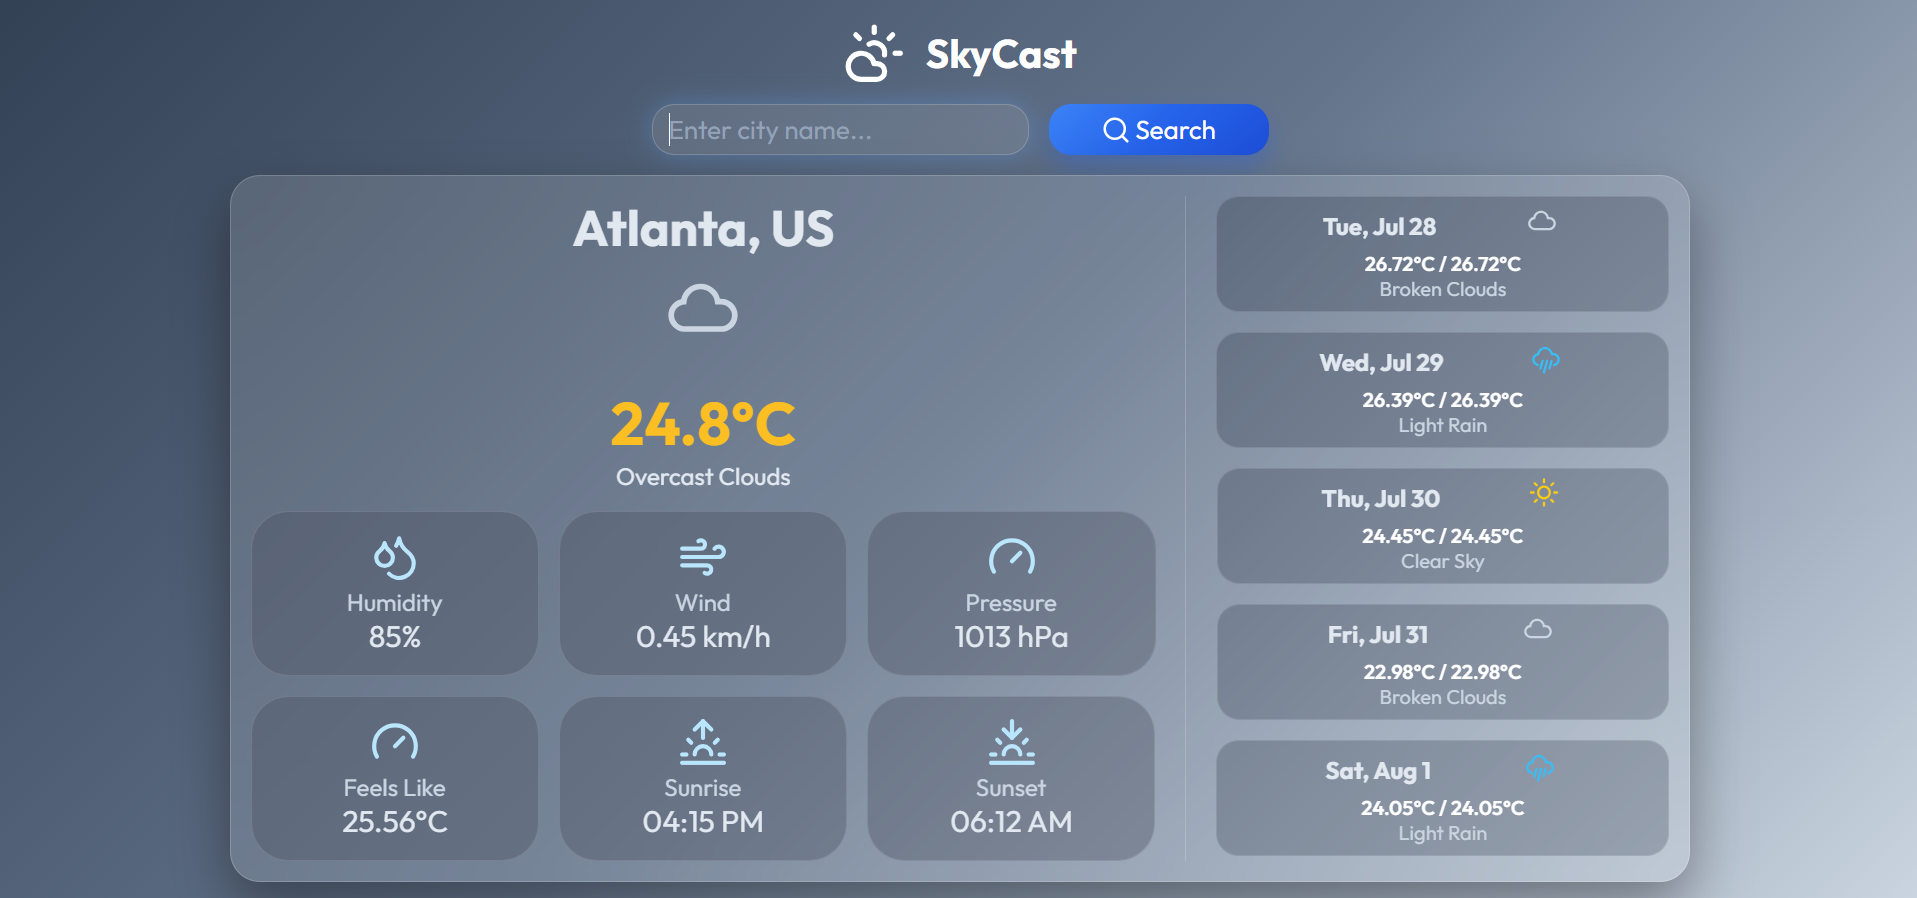
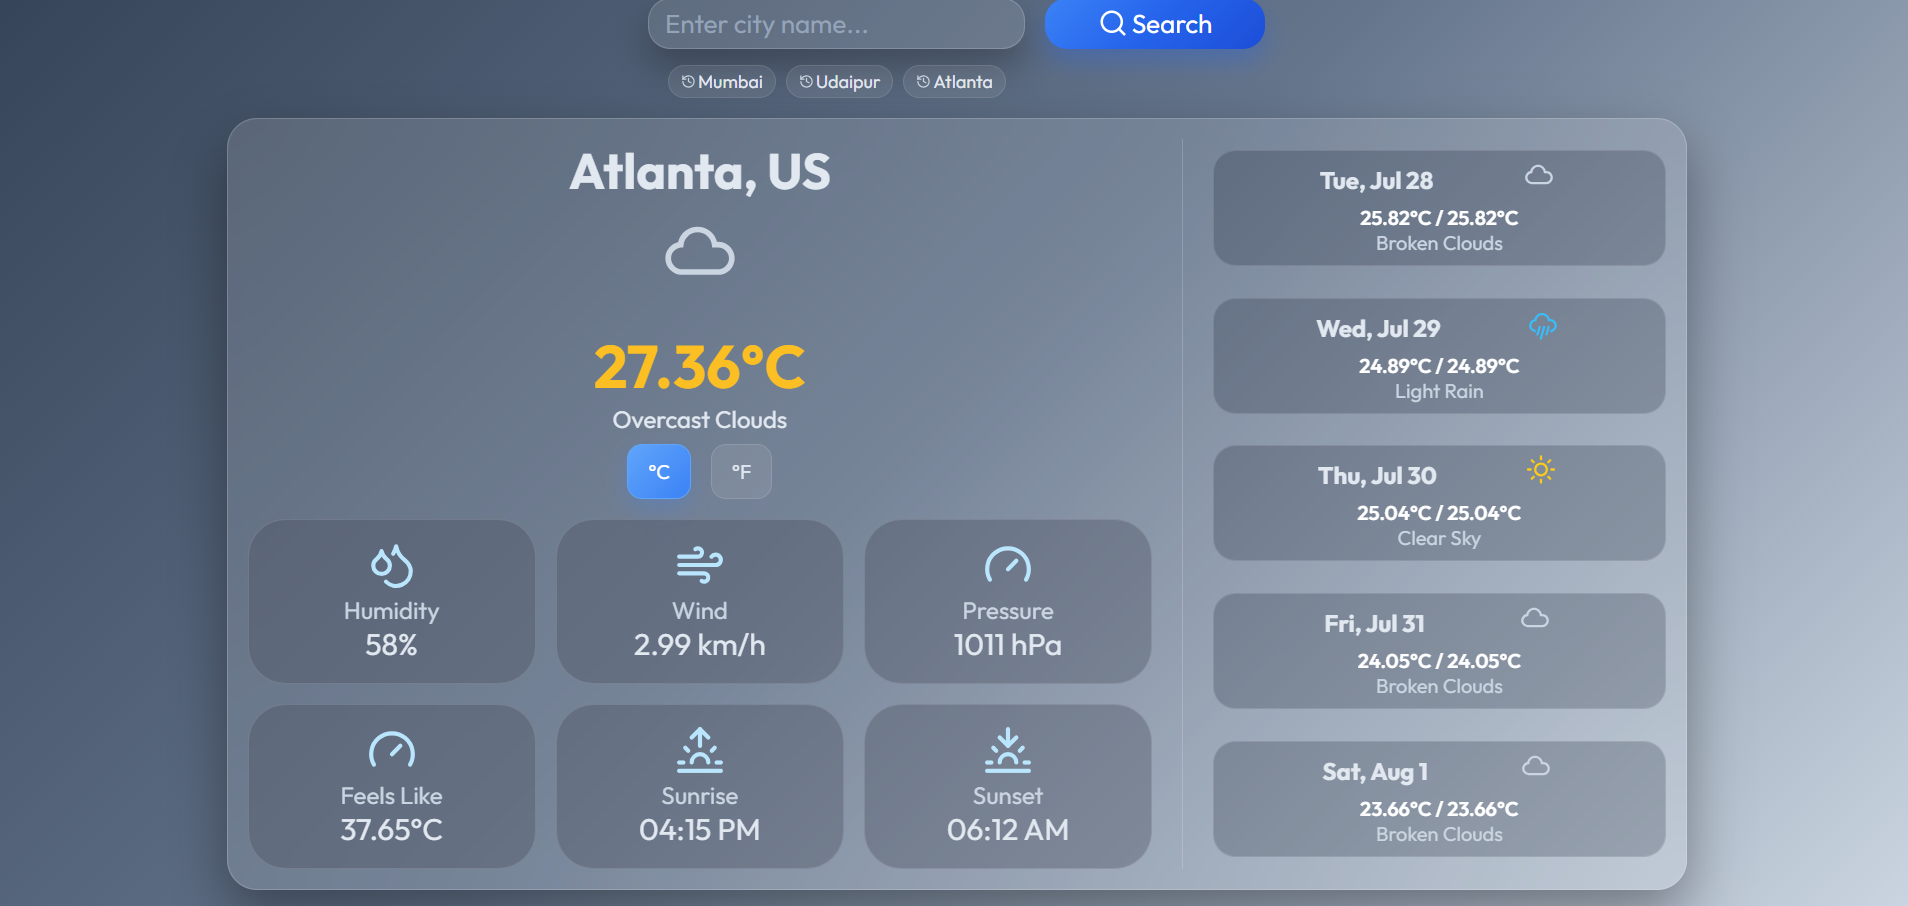
Update README and some stylings.

diff --git a/src/index.css b/src/index.css
@@ -111,9 +111,8 @@
     --transition-fast: .2s ease;
     --transition: all .3s ease;
     --transition-slow: .45s ease;
-        
-    --scroll-thumb: #60A5FA;
-    --scroll-track: transparent;
+    --scroll-thumb: rgba(255, 255, 255, 0.28);
+    --scroll-thumb-hover: rgba(255,255,255,.45);
 
     --recent-search-bg: rgba(255, 255, 255, 0.08);
     --recent-search-hover: rgba(255, 255, 255, 0.14);
@@ -425,6 +424,16 @@ body{
 }
 .forecast-card-description{
     color: var(--text-muted)
+}
+::-webkit-scrollbar{
+    width: 6px;
+}
+::-webkit-scrollbar-thumb{
+    background: var(--scroll-thumb);
+    border-radius: 999px;
+}
+::-webkit-scrollbar-thumb:hover{
+    background: var(--scroll-thumb-hover);
 }
 
 @media (max-width: 1200px){

diff --git a/README.md b/README.md
@@ -1,6 +1,6 @@
 # 🌤 SkyCast
 
-A modern and responsive weather application built with **React.js** that provides real-time weather information and a 5-day forecast for any city worldwide. SkyCast features a clean user interface, smooth user experience, and dynamic weather data powered by the OpenWeather API.
+A modern and responsive weather application built with **React.js** that provides real-time weather information, a 5-day forecast, recent search history, and temperature unit conversion (°C/°F) for cities worldwide. SkyCast features a clean glassmorphism-inspired interface and delivers live weather data using the OpenWeather API.
 
 ![React](https://img.shields.io/badge/React-19-61DAFB?logo=react)
 ![Vite](https://img.shields.io/badge/Vite-7-646CFF?logo=vite)
@@ -33,11 +33,15 @@ A modern and responsive weather application built with **React.js** that provide
 - 🌡 View real-time weather conditions
 - 📅 5-day weather forecast
 - 🌤 Weather icons based on current conditions
+- 🌈 Dynamic backgrounds that change based on current weather conditions
+- 🌡 Toggle between Celsius (°C) and Fahrenheit (°F)
+- 🕘 Recent search history with one-click search
+- 💾 Recent searches are saved using Local Storage
 - ⚡ Fast and responsive user interface
 - 📱 Fully responsive design for desktop, tablet, and mobile
 - ⏳ Loading spinner while fetching weather data
 - ❌ User-friendly error handling for invalid cities or network issues
-- 🎨 Modern UI with reusable React components
+- 🎨 Modern UI built with reusable React components
 
 ---
 
@@ -127,12 +131,11 @@ The application can be deployed on platforms such as:
 ## 💡 Future Improvements
 
 - 📍 Detect user's current location
-- 🌅 Dynamic backgrounds based on weather conditions
 - 🌙 Dark/Light mode
 - 🕒 Hourly weather forecast
 - ⭐ Save favorite cities
-- 🌎 Recent search history
-- 🌡 Toggle between Celsius and Fahrenheit
+- 🌬 Additional weather metrics (Air Quality Index, UV Index, Visibility)
+- 🌐 Search suggestions with autocomplete
 
 ---
 
